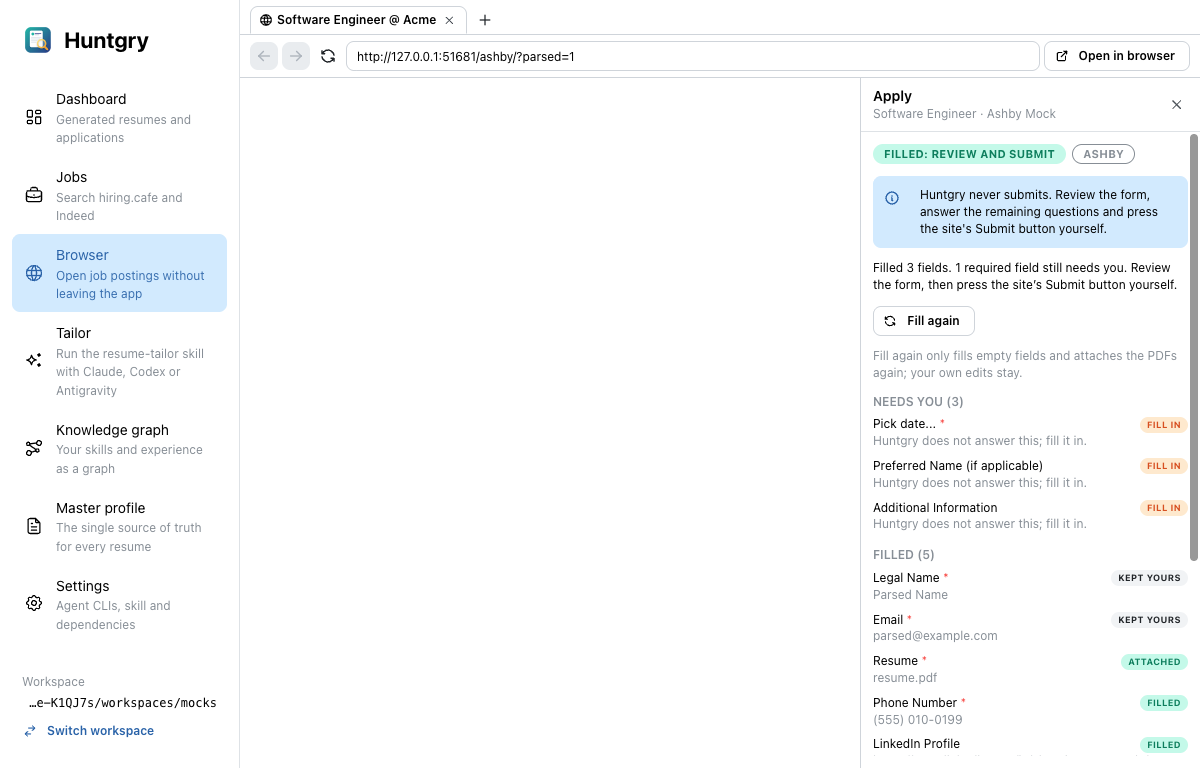
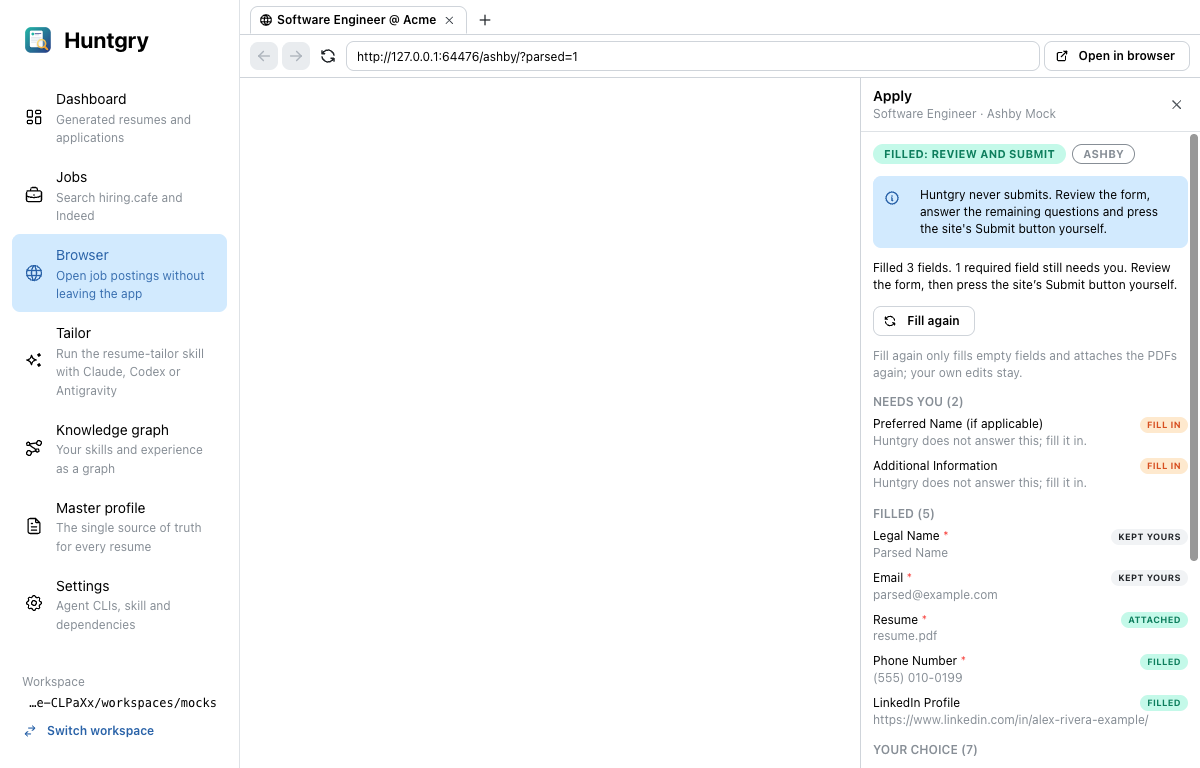
docs(changes): Ashby on the #63 engine, and how each hook is proven
The change doc now describes the rebased state: #63's engine calls the
Ashby hooks, the embed follow passes the loopback option, the mock's new
switches and routes, the shared uploads.json, and the six e2e cases with
the hook each one guards. The "until #63 lands" gaps and follow-ups are
gone. The screenshots are refreshed from the final e2e run.

Refs #64

diff --git a/docs/changes/64-ashby-adapter.md b/docs/changes/64-ashby-adapter.md
@@ -41,21 +41,22 @@ when it was reached from a company page.
 | --- | --- | --- |
 | Adapter | `src/shared/autofill/adapters/ashby.ts`, `adapters/index.ts` | Recognised by host or markup (container, a system field, or the success panel). The form root is `.ashby-application-form-container`, so the autofill pane above it is never scanned or reported. `known`: name → `fullName`, email, `#_systemfield_resume` → resume. Phone and LinkedIn go through the generic label matcher, and "Preferred Name" is ruled out by its negative word. #63 hooks: `ready` (a system field is rendered inside the container), `uploadOrder: 'files-first'`, `uploadGroup` / `uploadAttached` read from Ashby's widget (`missing` / `pending` / `attached`), `afterUpload` (wait for the item's delete button), and `choices` (the location autocomplete and the date picker). `isConfirmation` is the success panel. |
 | Embeds | `src/shared/apply-embeds.ts` | An Ashby `EmbedRule`: https `jobs.ashbyhq.com` only, a `/<org>/<job-uuid>[/application]` path only. A new optional `EmbedRule.page(url)` turns the iframe URL into the page to open: for Ashby, the job's `/application` without the embed parameters. `embedPageFor(value)` checks a URL against the rules and returns `{ ats, url }`. |
-| Service | `src/main/apply/service.ts` | Follows any embed rule (it was Greenhouse only), opening `embedPageFor(scan.embedUrl).url`, so main both validates and builds the URL. The panel message names the ATS. |
+| Service | `src/main/apply/service.ts` | Follows any embed rule (it was Greenhouse only), opening `embedPageFor(scan.embedUrl, { allowLoopback })`'s `url`, so main both validates and builds the URL (and trusts that page's origin, as #63 does for Greenhouse). The panel message names the ATS. Everything else comes from #63's engine, which calls the Ashby hooks: the readiness wait and the late-form watch use `ready`, the two-pass fill uses `uploadOrder`, the upload check uses `uploadGroup` / `uploadAttached`, and the parser wait uses `afterUpload`. |
 | Trust | `src/shared/apply-url.ts` | `AUTO_TRUSTED_ATS` gains `ashby`, so the followed `jobs.ashbyhq.com` form fills without **Fill form**, like Greenhouse and Lever. https only, exact host suffix. |
-| Mock | `scripts/mock-ats/ashby.mjs` (+ `.d.mts`), `scripts/mock-ats/server.mjs` | `/ashby/` serves an empty `#root` and renders the captured form `renderMs` after `load` (default 500 ms). The resume widget behaves like Ashby's: spinner, then the item with delete and "Replace", and a toast on failure. It uploads to `/ashby/upload` (recorded in `ashby-uploads.json`). The parser pane posts to `/ashby/parse` (recorded) and fills only empty fields; `?parsed=1` renders as if it had been used, and `?failUpload=1` makes the upload fail. Submit posts the answers plus the uploaded file to `/ashby/submit` and swaps in the success panel. `server.mjs` gains an optional per-site `routes()` hook and `sendJson`. |
-| Fixtures | `src/shared/autofill/fixtures/ashby-form.html`, `ashby-embed-host.html`, `e2e/fixtures/workspaces/mocks/software-engineer/ashby-mock/as-1` | The live form, anonymised (Acme, fake UUIDs), plus a LinkedIn custom question. A careers page with Ashby's embed iframe. A `mocks` application whose posting is `/ashby/?parsed=1`. |
+| Mock | `scripts/mock-ats/ashby.mjs` (+ `.d.mts`), `scripts/mock-ats/server.mjs` | `/ashby/` serves an empty `#root` and renders the captured form `renderMs` after `load` (default 500 ms). The resume widget behaves like Ashby's: spinner, then the item with delete and "Replace", and a toast on failure. It uploads to `/ashby/upload`, recorded in the mock ATS's `uploads.json` (#63's `recordUpload`: site `ashby`, `kind`, size, sha256). The parser pane posts to `/ashby/parse` (recorded) and fills only empty fields. Switches: `?parsed=1` (the parser was already used), `?failUpload=1` (Ashby rejects the upload), `?clearPhone=once\|always` (the page wipes the phone after it is filled), `?staggerMs=` (the resume question first, the rest later). `/ashby/<job-uuid>[/application]` serves the form, and `/ashby/careers` is a company page that injects Ashby's embed iframe 800 ms after load. Submit posts the answers plus the uploaded file to `/ashby/submit` and swaps in the success panel. `server.mjs` gains an optional per-site `routes()` hook and `sendJson`. |
+| Fixtures | `src/shared/autofill/fixtures/ashby-form.html`, `ashby-embed-host.html`, `e2e/fixtures/workspaces/mocks/software-engineer/ashby-mock/as-1` | The live form, anonymised (Acme, fake UUIDs), plus a LinkedIn custom question. A careers page with Ashby's embed iframe. Five `mocks` applications on the mock Ashby: `ashby-mock` (`?parsed=1`), `ashby-late-mock` (`?renderMs=5000&staggerMs=4000&clearPhone=once`), `ashby-wipe-mock` (`?clearPhone=always`), `ashby-reject-mock` (`?failUpload=1`) and `ashby-embed-mock` (`/ashby/careers`). |
 | Tests | `adapters/ashby.test.ts`, `src/shared/apply.test.ts`, `src/main/apply/apply.test.ts`, `e2e/tests/apply-ashby.spec.ts` | See below. |
 
 ### Shared engine changes
 
 Kept to the extension points #63 set up: one registry line, one `EMBED_RULES` entry, and these:
 
-- `EmbedRule.page?` (optional) and `embedPageFor()` in `apply-embeds.ts`.
-- `service.ts`: `isGreenhouseEmbedUrl(scan.embedUrl)` → `embedPageFor(scan.embedUrl)`, and the message is now
-  "This page embeds the <ATS> application form; opening it directly."
+- `EmbedRule.page?` (optional) and `embedPageFor(value, { allowLoopback })` in `apply-embeds.ts`.
+- `service.ts`: `embedRuleFor(embed, …)` → `embedPageFor(scan.embedUrl, …)` (it opens the rule's page), and the
+  message is now "This page embeds the <ATS> application form; opening it directly."
 - `AUTO_TRUSTED_ATS` += `ashby`.
-- `scripts/mock-ats/server.mjs`: the `ashby` site, an optional `routes()` per site, and `sendJson`.
+- `scripts/mock-ats/server.mjs`: the `ashby` site, an optional `routes()` per site (given `uploadsFile`,
+  `recordUpload`, `sendJson` and `sendHtml`), and `sendJson`.
 
 ```mermaid
 flowchart TD
@@ -100,14 +101,11 @@ flowchart TD
   `app.ashbyhq.com` is not an embed host.
 - **The location combobox is left to the user**, as the AC asks. `choices` names it, and today the engine already
   reports `role=combobox` as *Your choice*.
-- **No new readiness or verify code here.** The settle and the re-verify belong to #63's engine, and the Ashby hooks
-  (`ready`, `uploadAttached`, `afterUpload`) have no runtime consumer until #63 lands (PR review). Until then:
-  - The service's fixed re-detects (load+1 s, then load+4 s) catch a form that renders within about 4 s, so a slower
-    Ashby API leaves the page on *Ready to fill*.
-  - An upload Ashby rejects is still reported *Attached*, because the service marks it right after the CDP call.
-  - A value the page clears after the fill is still reported *Filled*.
-
-  This PR is rebased onto #63 and re-verified with e2e cases for each of these before it merges.
+- **No new readiness or verify code here.** The settle and the re-verify belong to #63's engine; this adapter only
+  provides the hooks it calls. The PR review asked for proof that they are really called, so the e2e has a case per
+  hook that fails when the hook is removed. Checked by removing each one locally:
+  - Without `ready`: the late, staggered form is filled before its questions exist, so the name is missing.
+  - Without `uploadAttached`: a rejected upload is reported *Attached*.
 
 ## How to test
 
@@ -125,25 +123,25 @@ node scripts/mock-ats.mjs  # then open http://localhost:4173/ashby/ (or /ashby/?
 - **Service:** an Ashby posting opens `/application`, is `ready` while the shell is empty, and fills and uploads once
   the form renders. An embedded job opens `jobs.ashbyhq.com/<org>/<id>/application` and fills there. A board-only
   iframe or an untrusted page is not followed.
-- **e2e:** (1) a fake-agent Tailor run with the posting `…/ashby/` → **Apply** on the run → the late form fills the
+- **e2e** (`apply-ashby.spec.ts`, six cases): (1) a fake-agent Tailor run with the posting `…/ashby/` → **Apply** on the run → the late form fills the
   name, email, phone and LinkedIn. The widget shows `resume.pdf` and "Replace". The mock recorded exactly one upload
-  with the run's own `resume.pdf` size, and no parse. The autofill input holds no file, and the values are still there
-  1.5 s later. The test presses Submit, the mock's payload holds the values and the file, and the panel says
+  of the run's own `resume.pdf` (same size and sha256), and no parse. The autofill input holds no file. The test presses Submit, the mock's payload holds the values and the file, and the panel says
   **Submitted**. (2) `?parsed=1` from the Dashboard: the parser's name and email are **Kept yours**, phone and
-  LinkedIn are filled, and resume.pdf is attached.
+  LinkedIn are filled, and resume.pdf is attached. (3) A form rendered 5 s after load, later than the service's
+  fixed re-detects, and staggered (resume question first, the rest 4 s later), with the phone wiped once after it is
+  filled: everything is filled, the phone is restored by the re-verify, and the resume is attached. (4) A phone wiped
+  every time is reported **Rejected** ("The page cleared it after filling"), and the other fields hold. (5) An upload
+  Ashby rejects (the toast, no file listed) is reported **Attach yourself**, never *Attached*. (6) A company page that
+  injects Ashby's embed iframe late: the tab opens `/ashby/<job>/application` (the dev-only loopback embed allowance),
+  then fills and attaches there.
 
 Screenshots: `docs/changes/assets/64-ashby-filled-page.png`, `64-ashby-filled-panel.png`, `64-ashby-kept-page.png`, `64-ashby-kept-panel.png`
 (written by the e2e as test attachments).
 
 ## Follow-ups
 
-- Once #63 lands (required before merge): check that the engine reads `ready`, `uploadOrder`, `uploadAttached` and
-  `afterUpload` for Ashby. Add e2e cases for a render later than the last fixed retry (`?renderMs=`), an upload the
-  mock fails (`?failUpload=1`: a toast, so `upload-failed` and never *Attached*), and a value cleared after the fill
-  (re-applied once, else `rejected`).
-- An Ashby embed on a company domain cannot be exercised end-to-end: the embed rule requires https on
-  `jobs.ashbyhq.com`. It is covered by unit and service tests. A loopback override for embed hosts in dev (as #63 plans
-  for Greenhouse) would allow an e2e.
+- The real `jobs.ashbyhq.com` embed path is covered by unit and service tests. The e2e drives the same rule through
+  the dev-only loopback allowance.
 - Board-only embeds (`/<org>?embed=js`): the user picks a job inside the iframe, and the iframe's `src` does not
   change. A follow-up could read `ashby_jid` from the host page URL.
 - Verify against a few more live orgs: "Name" vs "Legal Name", forms without a phone question, and multi-file
